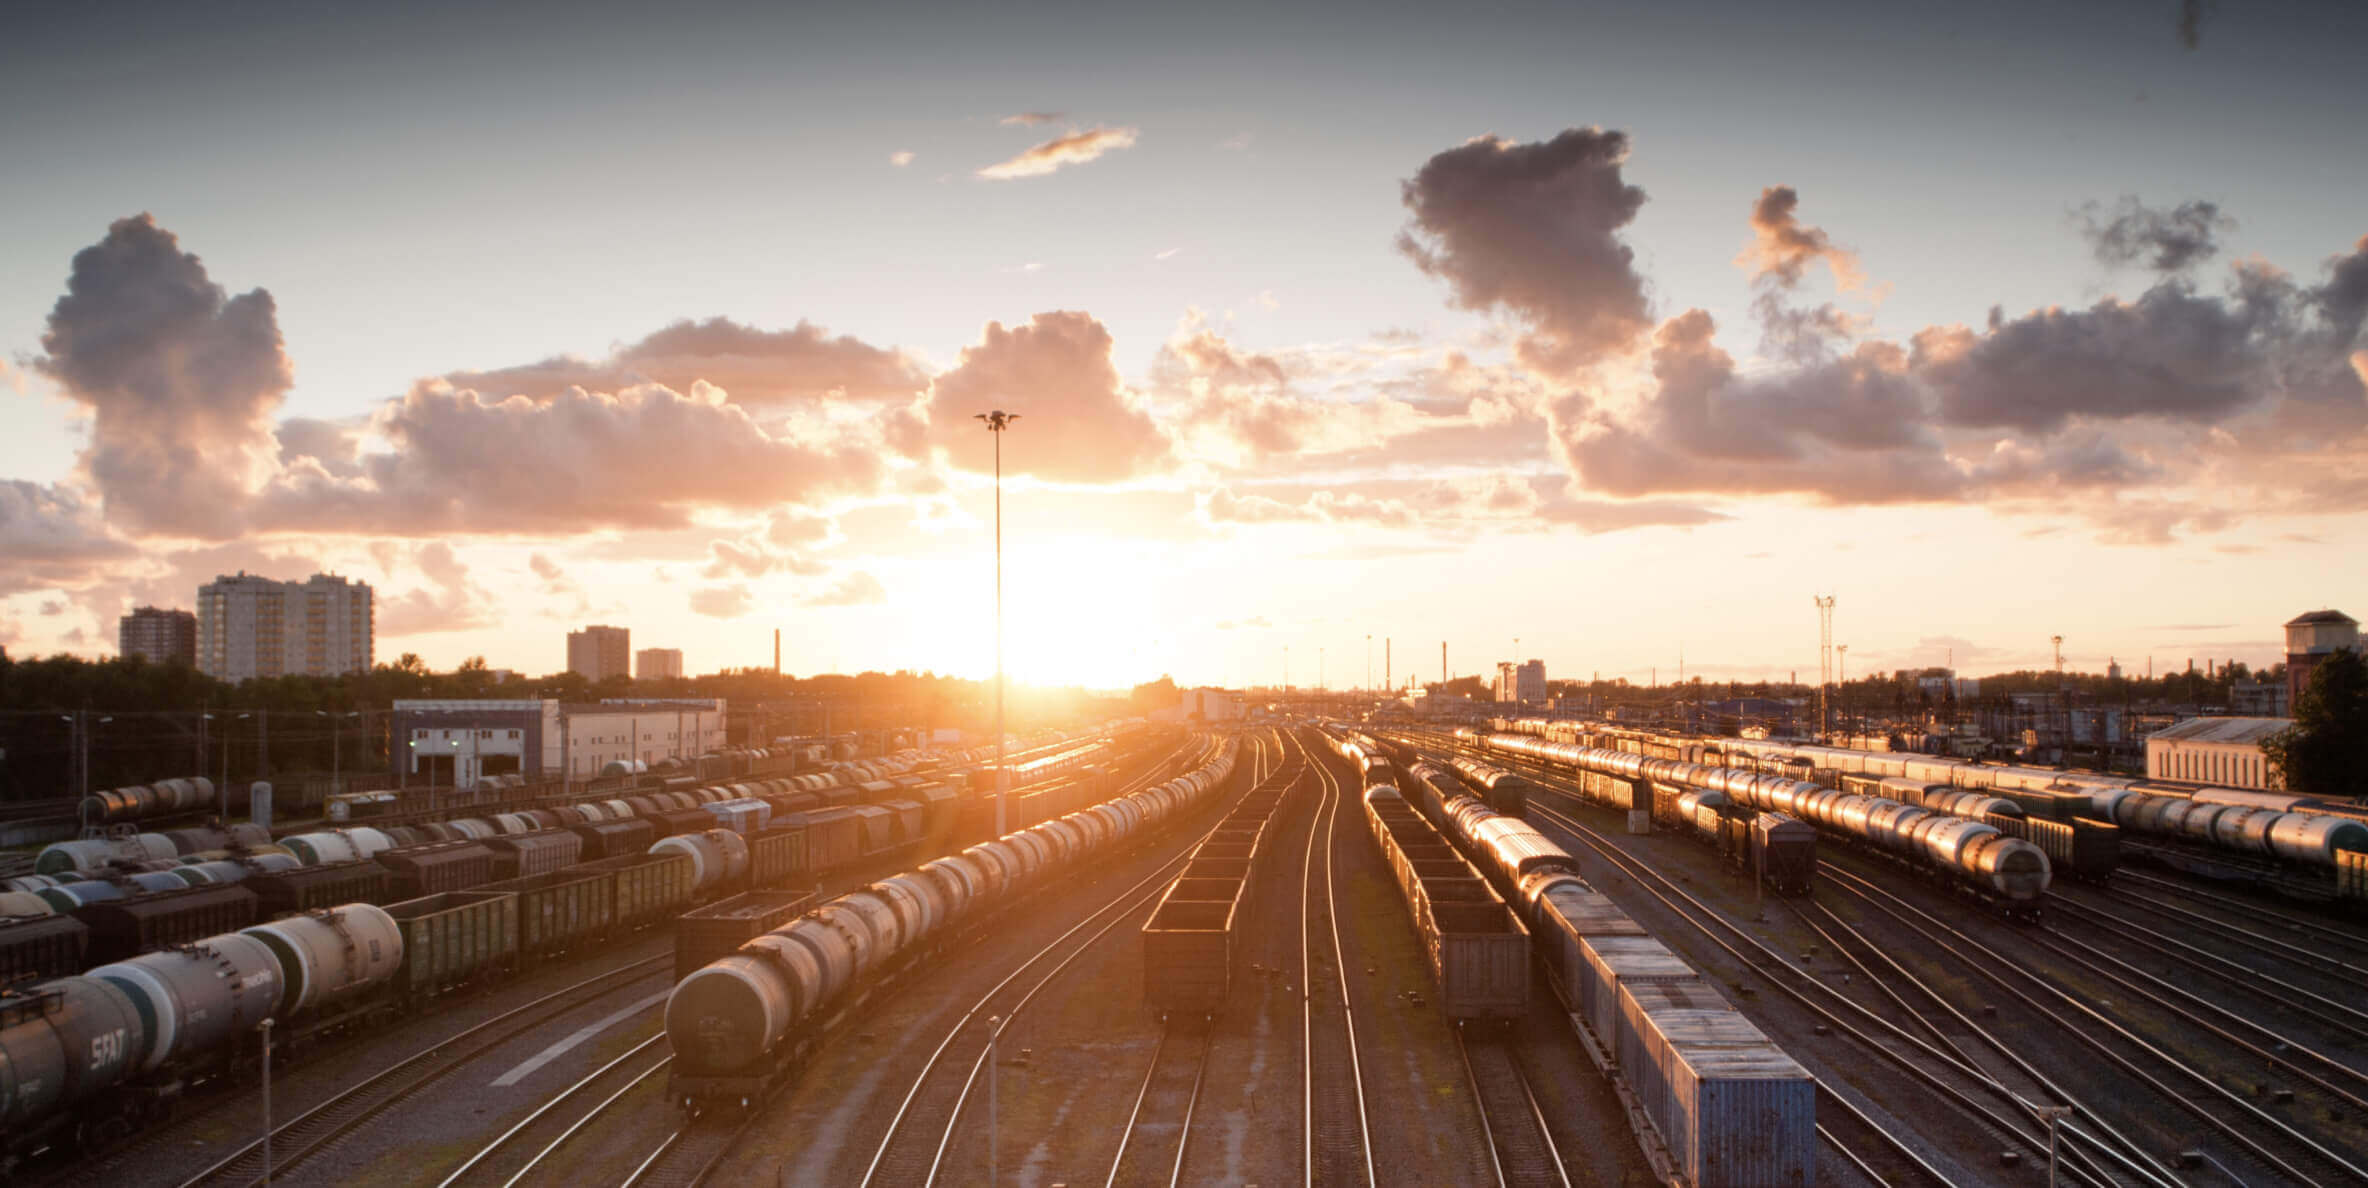
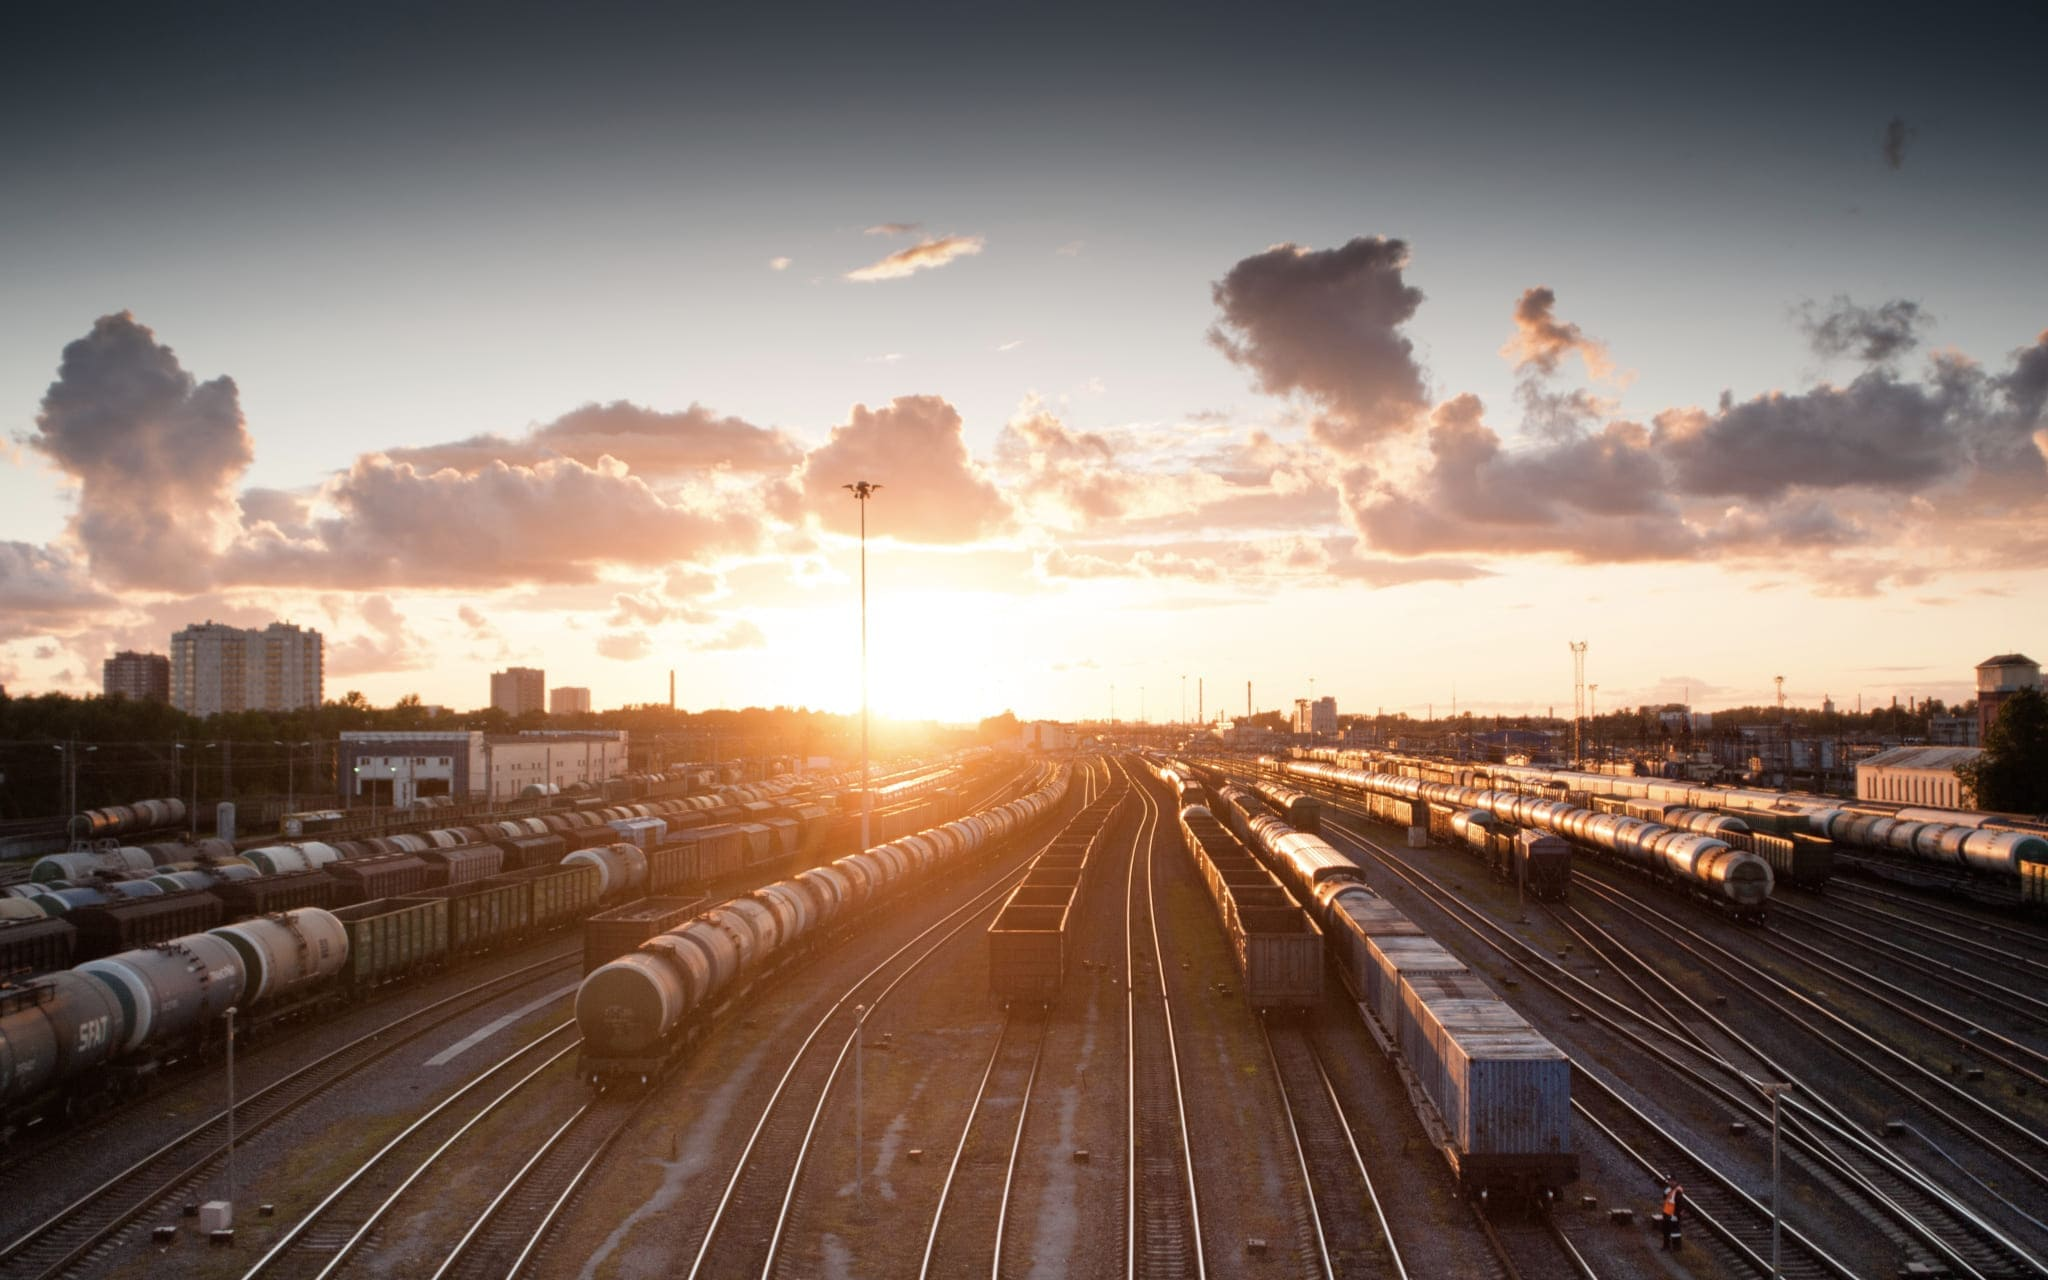
исправление iter1

diff --git a/pages/index.css b/pages/index.css
@@ -1,6 +1,5 @@
 @import url('../vendor/normalize.css');
 @import url('../fonts/Inter.css');
-/*@import url('../fonts/fonts.css');*/
 @import url('../blocks/page/page.css');
 @import url('../blocks/footer/footer.css');
 @import url('../blocks/footer/__copyright/footer__copyright.css');
@@ -13,8 +12,8 @@
 @import url('../blocks/cover/__title/cover__title.css');
 @import url('../blocks/header/header.css');
 @import url('../blocks/header/__lang-link-item/header__lang-link-item.css');
-@import url('../blocks/header/__lang-link/_pass/header__lang-link_pass.css');
 @import url('../blocks/header/__lang-link/header__lang-link.css');
+@import url('../blocks/header/__lang-link/__lang-link_active/header__lang-link_active.css');
 @import url('../blocks/header/__lang-links/header__lang-links.css');
 @import url('../blocks/header/__logo/header__logo.css');
 @import url('../blocks/lead/lead.css');
@@ -38,39 +37,3 @@
 @import url('../blocks/place/__image/place__image.css');
 @import url('../blocks/place/__text/place__text.css');
 @import url('../blocks/place/__paragraph/place__paragraph.css');
-@import url();
-@import url();
-@import url();
-@import url();
-@import url();
-@import url();
-@import url();
-@import url();
-@import url();
-@import url();
-@import url();
-@import url();
-@import url();
-@import url();
-@import url();
-@import url();
-@import url();
-@import url();
-@import url();
-@import url();
-@import url();
-@import url();
-@import url();
-@import url();
-@import url();
-
-
-
-
-
-
-
-
-
-
-

diff --git a/index.html b/index.html
@@ -2,7 +2,6 @@
 <html lang="ru">
   <head>
     <meta charset="UTF-8">
-    <link rel="stylesheet" href="style.css">
     <link rel="stylesheet" href="pages/index.css">
     <meta name="viewport" content="width=device-width, initial-scale=1.0">
     <title>Путешествия по России</title>
@@ -10,13 +9,11 @@
   <body>
     <div class="page">
       <header class="header">
-        <div class="header__logo"><img src="sprint-3-images/header-logo.svg" alt="контур территории России"></div>
-        <nav>
-          <ul class="header__lang-links">
-            <li class="header__lang-link-item"><a class="header__lang-link" href="#">Ru</a></li>
-            <li class="header__lang-link-item"><a class="header__lang-link header__lang-link_pass" href="#">En</a></li>
-          </ul>
-        </nav>
+        <img class="header__logo" src="sprint-3-images/header-logo.svg" alt="контур территории России">
+        <ul class="header__lang-links">
+          <li class="header__lang-link-item"><a class="header__lang-link header__lang-link_active" href="#">Ru</a></li>
+          <li class="header__lang-link-item"><a class="header__lang-link" href="#">En</a></li>
+        </ul>
       </header>
 
       <main class="main">

diff --git a/blocks/place/place.css b/blocks/place/place.css
@@ -3,7 +3,7 @@
   list-style-type: none;
   display: grid;
   grid-template-columns: repeat(2, 1fr);
-  grid-template-rows: repeat(2, min-content);
+  /*grid-template-rows: repeat(2, min-content);*/
   grid-template-areas:
   "title website"
   "image text";
@@ -37,12 +37,6 @@
 
 @media screen and (max-width: 540px) {
   .place {
-    grid-row-gap: 32px;
-  }
-}
-
-@media screen and (max-width: 540px) {
-  .place {
     display: flex;
     flex-direction: column;
   }
@@ -51,3 +45,5 @@
     margin-top: 48px;
   }
 }
+
+

diff --git a/blocks/place/__link/place__link.css b/blocks/place/__link/place__link.css
@@ -1,7 +1,11 @@
 .place__link {
-   color: white;
-   font-style: normal;
-   font-weight: normal;
-   font-size: 18px;
-   line-height: 122%;
-} 
+  color: white;
+  font-style: normal;
+  font-weight: normal;
+  font-size: 18px;
+  line-height: 122%;
+}
+
+.place__link:hover {
+  opacity: 0.8;
+}

diff --git a/blocks/cover/__title/cover__title.css b/blocks/cover/__title/cover__title.css
@@ -27,7 +27,7 @@
   .cover__title {
     max-width: 370px;
     font-size: 50px;
-    line-height: 1;
+    line-height: 100%;
   }
 }
 
@@ -35,7 +35,7 @@
   .cover__title {
     max-width: 250px;
     font-size: 32px;
-    line-height: 1.09;
+    line-height: 109%;
     padding-top: 33px;
   }
 }

diff --git a/blocks/cover/cover.css b/blocks/cover/cover.css
@@ -10,6 +10,7 @@
   background-repeat: no-repeat;
   background-size: cover;
   width: 100%;
+  background-position: center;
 }
 
 .cover::before {
@@ -37,5 +38,6 @@
 @media screen and (max-width: 425px) {
   .cover {
     margin: 64px auto 0px;
+    min-height: 200px;
   }
 }

diff --git a/blocks/header/__logo/header__logo.css b/blocks/header/__logo/header__logo.css
@@ -1,9 +1,11 @@
 .header__logo {
-  max-width: 176px;
+  width: 176px;
+  height: 52px;
 }
   
 @media screen and (max-width: 540px) {
   .header__logo {
-      width: 142px;
+    width: 142px;
+    height: 42px;
   }
 }

diff --git a/blocks/place/__image/place__image.css b/blocks/place/__image/place__image.css
@@ -3,3 +3,10 @@
   object-fit: cover;  
   width: 100%;
 }
+
+@media screen and (max-width: 540px) {
+  .place__image {
+    margin-top: 32px;
+    margin-bottom: 32px;
+  }
+}

diff --git a/blocks/place/__url-heading/place__url-heading.css b/blocks/place/__url-heading/place__url-heading.css
@@ -4,5 +4,7 @@
   font-style: normal;
   font-weight: normal;
   font-size: 12px;
-  line-height: 100%;
+  line-height: 170%;
+  letter-spacing: 0.2em;
+  color: #AAAAAA;
 }

diff --git a/blocks/footer/__link/footer__link.css b/blocks/footer/__link/footer__link.css
@@ -7,6 +7,10 @@
   line-height: 1.12;
 }
 
+.footer__link:hover{
+  opacity: 0.8;
+}
+
 @media screen and (max-width: 570px) {
   .footer__link {
     font-style: normal;

diff --git a/blocks/header/__lang-link/header__lang-link.css b/blocks/header/__lang-link/header__lang-link.css
@@ -4,6 +4,7 @@
   font-size: 24px;
   line-height: 117%;
   color: white;
+  text-decoration: none;
 }
 
 @media screen and (max-width: 540px) {

diff --git a/blocks/lead/__caption/lead__caption.css b/blocks/lead/__caption/lead__caption.css
@@ -6,6 +6,7 @@
   font-weight: normal;
   font-size: 10px;
   line-height: 14px;
+  letter-spacing: 0.15em;
   text-transform: uppercase;
 }
 
